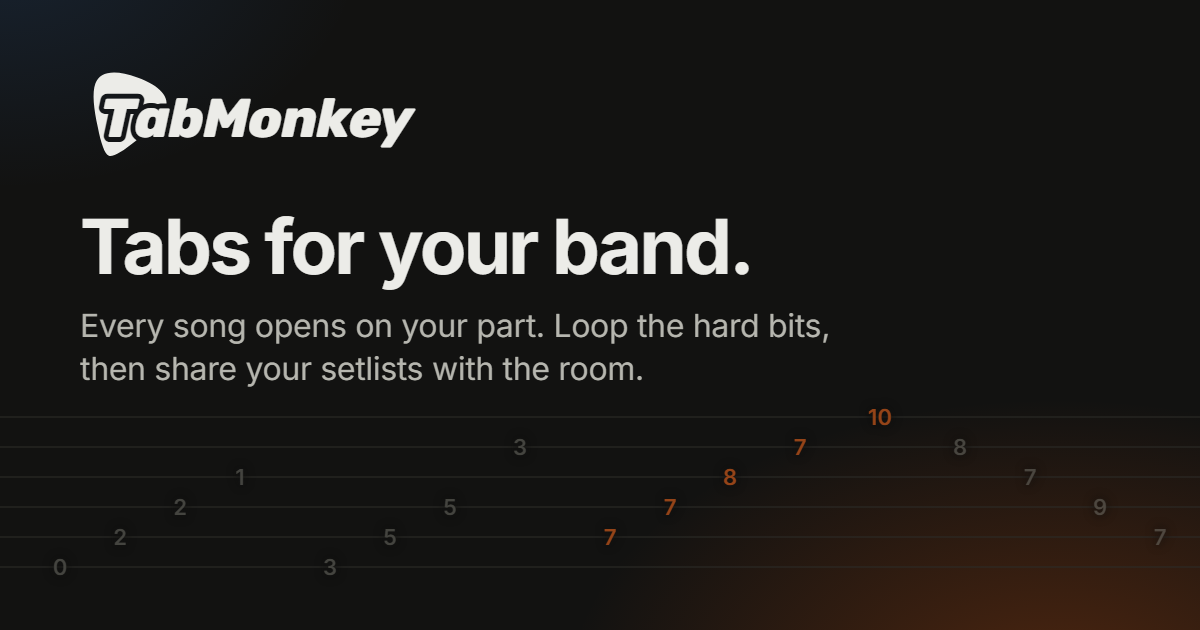
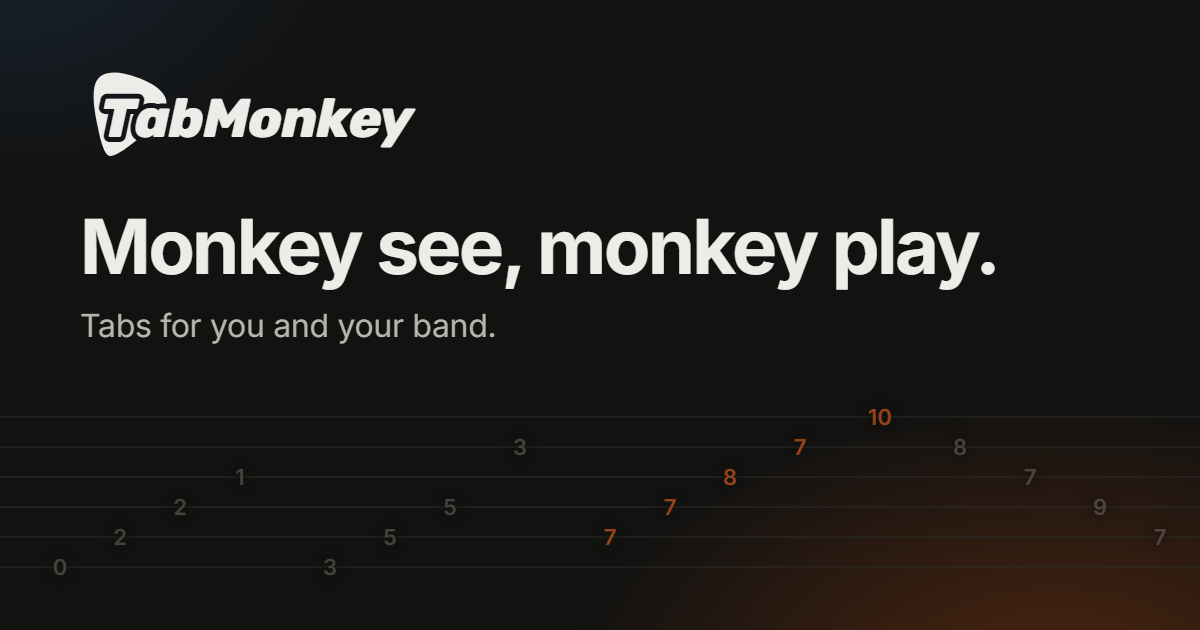
Tagline: Monkey see, monkey play.
Claude-Session: https://claude.ai/code/session_017RHsKWnuaeC76UfTtqaxe6

Changed region(s): [[0.0617, 0.3317, 0.8325, 0.5429], [0.0617, 0.573, 0.555, 0.6032]]

diff --git a/public/index.html b/public/index.html
@@ -6,13 +6,13 @@
 <meta name="theme-color" content="#f6f6f4" media="(prefers-color-scheme: light)">
 <meta name="theme-color" content="#121211" media="(prefers-color-scheme: dark)">
 <title>TabMonkey</title>
-<meta name="description" content="Tabs for your band. Open every song on your part, loop the hard bits, and share your setlists with whoever's in the room.">
+<meta name="description" content="Monkey see, monkey play. Tabs for you and your band.">
 <!-- The TabMonkey Worker: Songsterr search/song info and live sessions. -->
 <meta name="tm-api" content="https://tabmonkey.tabmonkey-worker.workers.dev">
 <meta property="og:type" content="website">
 <meta property="og:site_name" content="TabMonkey">
 <meta property="og:title" content="TabMonkey">
-<meta property="og:description" content="Tabs for your band. Open every song on your part, loop the hard bits, and share your setlists with whoever's in the room.">
+<meta property="og:description" content="Monkey see, monkey play. Tabs for you and your band.">
 <meta property="og:image" content="https://elijahderyaw.github.io/tabmonkey/og.png">
 <meta property="og:image:width" content="1200">
 <meta property="og:image:height" content="630">

diff --git a/scripts/og/card.html b/scripts/og/card.html
@@ -50,7 +50,7 @@
   for (const [x, s, f, hot] of notes) tab.insertAdjacentHTML('beforeend', `<b class="${hot ? 'hot' : ''}" style="left:${x}px;top:${s * 30 + 1}px">${f}</b>`);
   const wrap = document.getElementById('wrap');
   if (kind === 'site') {
-    wrap.innerHTML = `${LOGO}<h1>Tabs for your band.</h1><p>Every song opens on your part. Loop the hard bits,<br>then share your setlists with the room.</p>`;
+    wrap.innerHTML = `${LOGO}<h1>Monkey see, monkey play.</h1><p>Tabs for you and your band.</p>`;
   } else if (kind === 'session') {
     wrap.innerHTML = `${LOGO}<h1>You’re invited<br>to a session.</h1><div class="live">Live now · tap to join</div>`;
     const avs = document.getElementById('avs');
